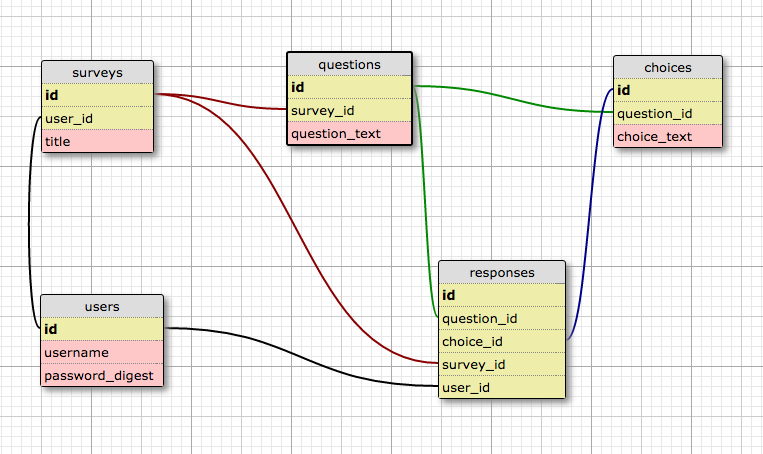
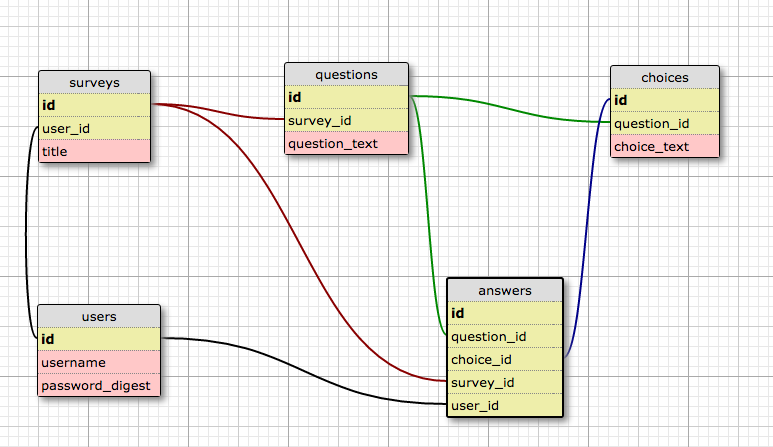
Create models and update schema

diff --git a/app/models/answer.rb b/app/models/answer.rb
@@ -1,0 +1,7 @@
+class Answer < ActiveRecord::Base
+  belongs_to :user
+  belongs_to :survey
+  belongs_to :question
+  belongs_to :choice
+  validates :user_id, :survey_id, :question_id, :choice_id, presence: true
+end

diff --git a/app/models/user.rb b/app/models/user.rb
@@ -1,0 +1,8 @@
+class User < ActiveRecord::Base
+  has_many :surveys
+  has_many :questions
+  has_many :choices
+  has_many :answers
+  validates :username, presence: true
+  has_secure_password
+end

diff --git a/app/models/survey.rb b/app/models/survey.rb
@@ -1,0 +1,7 @@
+class Survey < ActiveRecord::Base
+  belongs_to :user
+  has_many :questions
+  has_many :choices
+  has_many :answers
+  validates :user_id, :title, presence: true
+end

diff --git a/app/models/question.rb b/app/models/question.rb
@@ -1,0 +1,6 @@
+class Question < ActiveRecord::Base
+  belongs_to :survey
+  has_many :choices
+  has_many :answers
+  validates :survey_id, :question_text, presence: true
+end

diff --git a/app/helpers/sessions_helper.rb b/app/helpers/sessions_helper.rb
@@ -1,0 +1,9 @@
+helpers do
+  def current_user
+    @current_user ||= User.find_by(id: session[:user_id])
+  end
+
+  def logged_in?
+    !!current_user
+  end
+end

diff --git a/app/models/choice.rb b/app/models/choice.rb
@@ -1,0 +1,5 @@
+class Choice < ActiveRecord::Base
+  belongs_to :question
+  has_many :answers
+  validates :question_id, :choice_text, presence: true
+end
